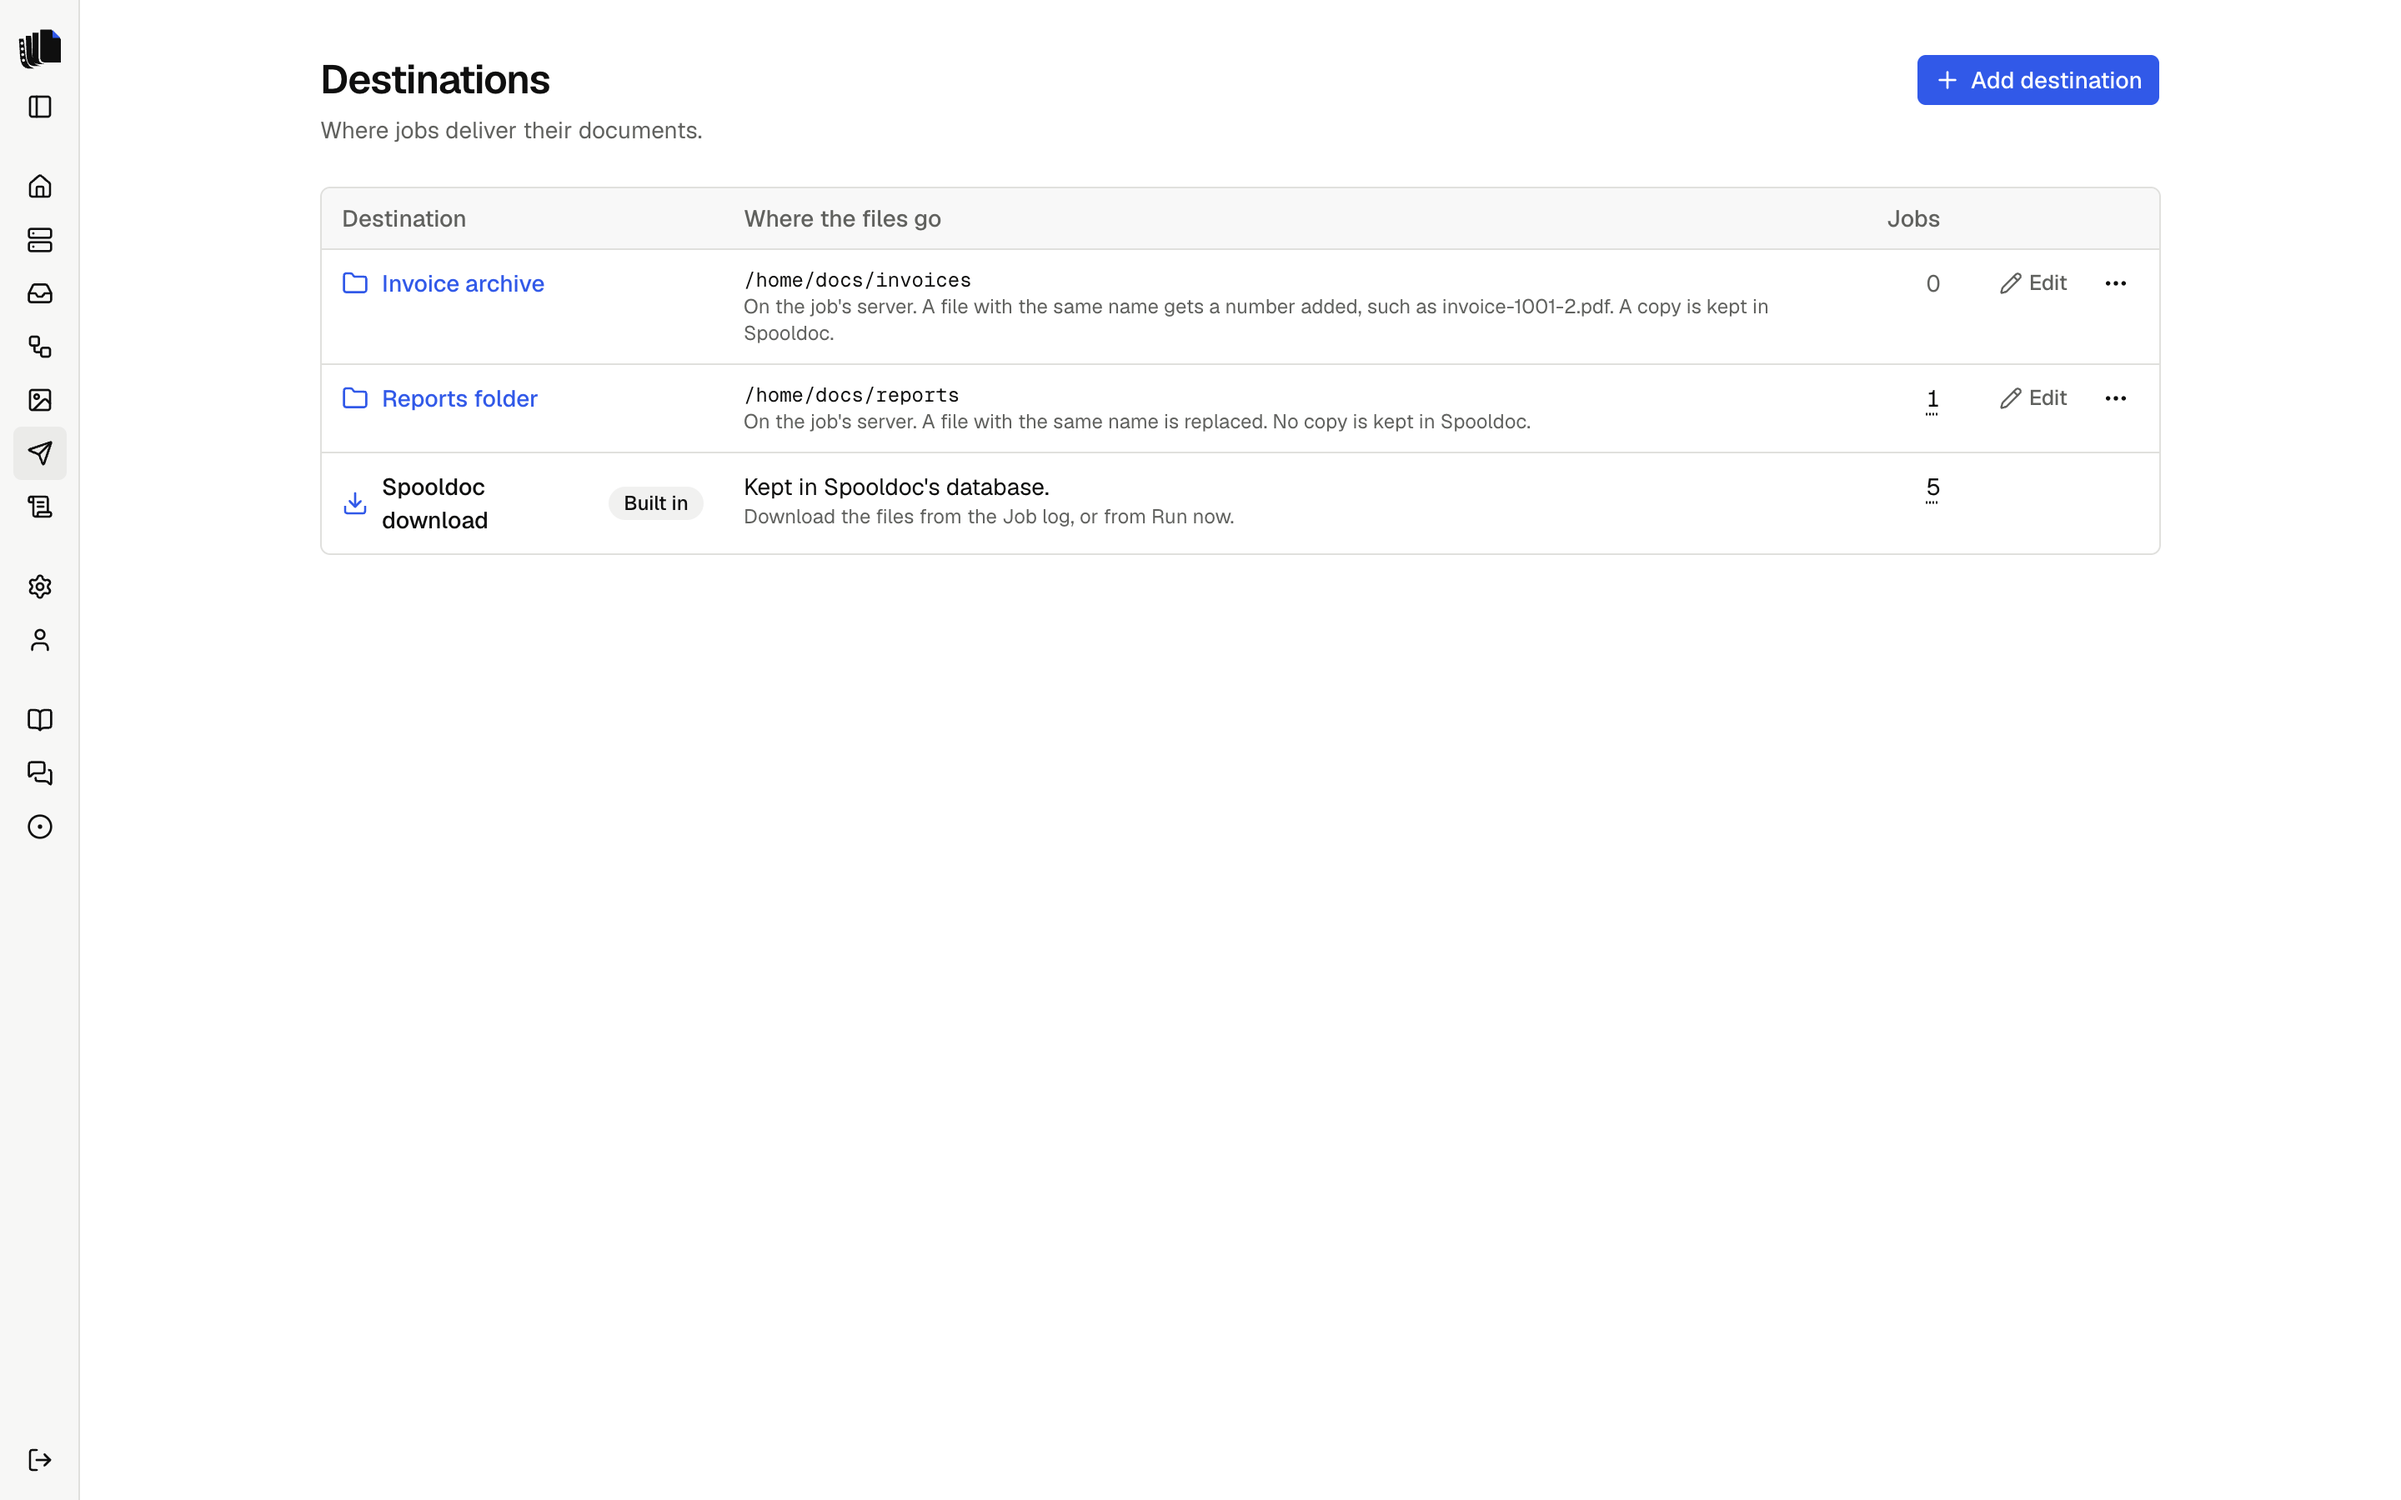
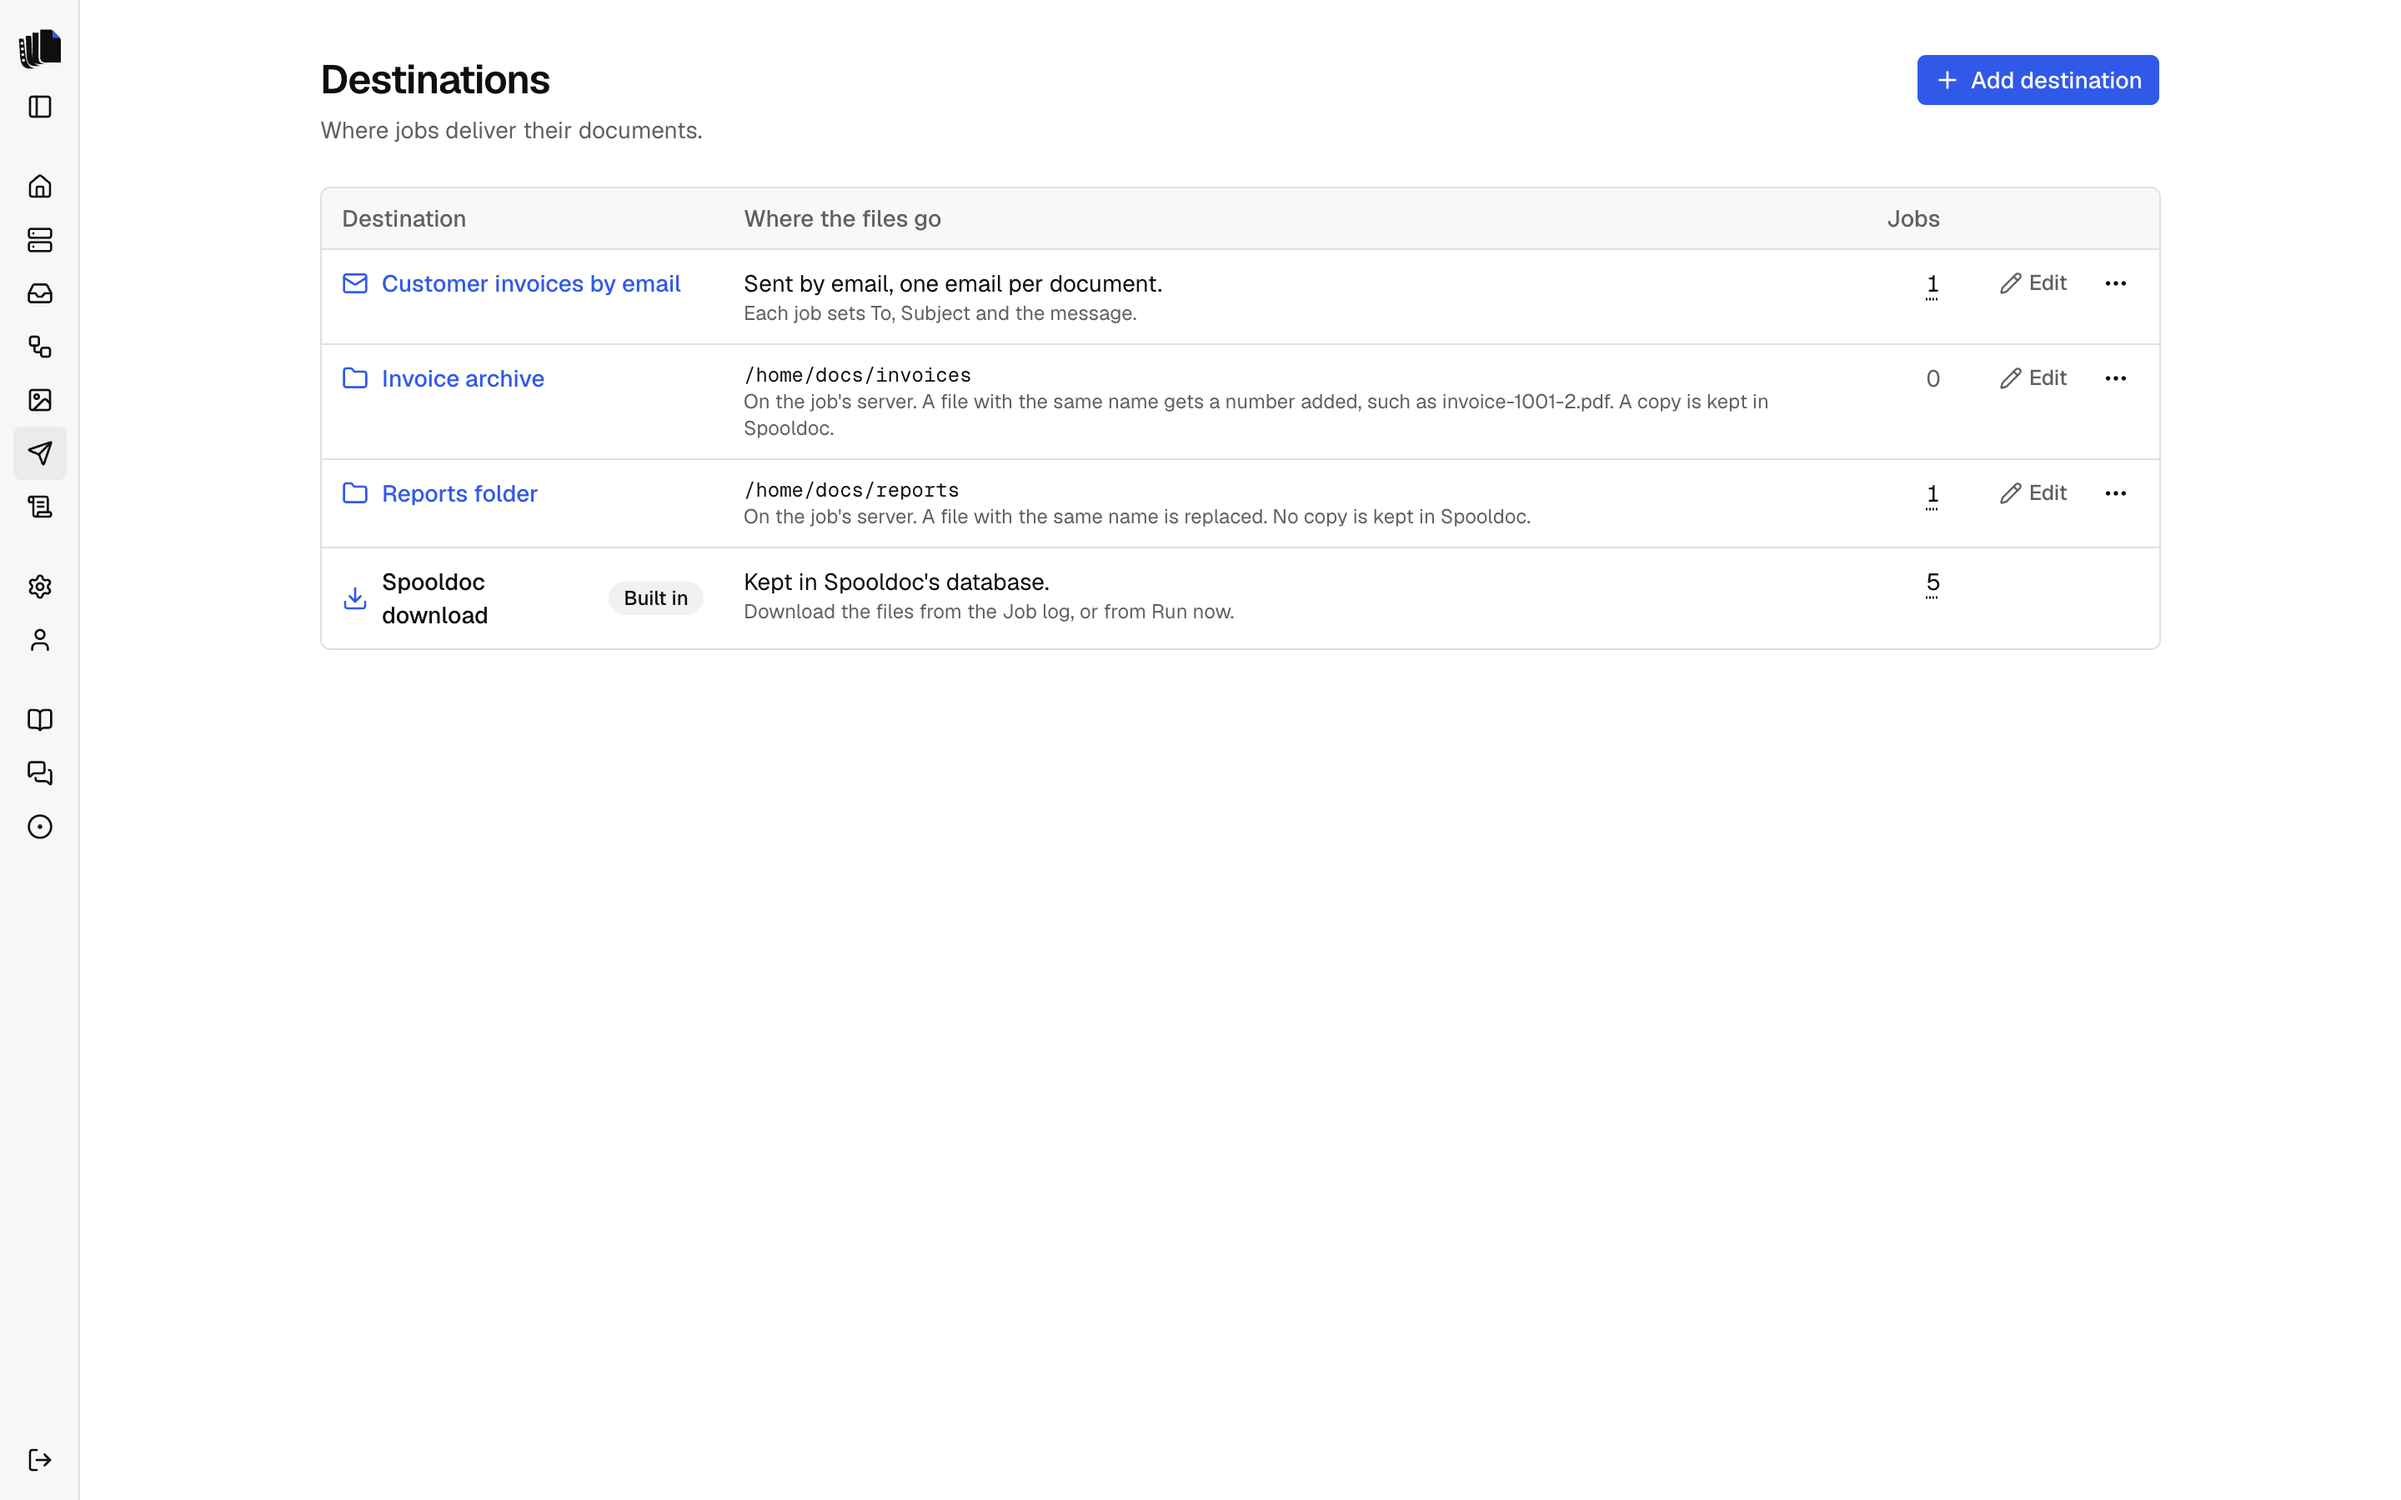
docs: screenshots of the email destination

diff --git a/apps/site/src/lib/features.ts b/apps/site/src/lib/features.ts
@@ -60,7 +60,9 @@ export const SHOTS = {
   'job-log-failed':
     'A failed run opened from the job log says which authority the user profile needs on the folder and the CHGAUT command that grants it, keeps the IBM i message under Details, and shows that the Deliver step failed.',
   destinations:
-    'The Destinations page lists two IFS folders, each with its folder, its settings and the number of jobs that use it, and the built-in Spooldoc download.',
+    'The Destinations page lists an email destination, two IFS folders with their folders and settings, and the built-in Spooldoc download, each with the number of jobs that use it.',
+  'email-step':
+    'The destination step of an invoice job sends to {d.pg.customerEmail} with a Bcc to an archive mailbox, a Reply-To and the subject Invoice {d.pg.invoiceNo} from MyCo Ltd. Beside the fields, the preview of page group 1 of 6 shows the email to invoices@northernsupply.example with invoice-260101.pdf attached and the message filled in.',
   'destination-ifs':
     'The New IFS destination dialog is filled in with a name, the folder /home/docs/delivery-notes, Add a number when a file with the same name exists, and Keep a copy in Spooldoc on.',
   home: 'The Home page shows counts of servers, output queues, jobs and runs, a chart of runs per day by status, and two items under Needs attention: a server that cannot be reached and a failed run.',
@@ -202,7 +204,7 @@ export const FEATURES: Feature[] = [
       'An email destination sends one email per document through your SMTP server. To, Subject and the message take fields such as <code>{d.pg.email}</code>, so each invoice goes to the customer on it, with its PDF attached. The message can be the document itself, from an HTML template. The job builder shows the email of each page group before anything is sent, and a test address sends every email to you first.',
       'The spooled file is held, moved or deleted only after every file was delivered. When an email fails, the job log lists each email with its status, and Retry sends only the ones not sent yet.',
     ],
-    shots: ['destinations', 'destination-ifs'],
+    shots: ['email-step', 'destinations', 'destination-ifs'],
     docs: [{ slug: 'destinations', title: 'Destinations' }],
   },
   {

diff --git a/docs/destinations.md b/docs/destinations.md
@@ -10,7 +10,7 @@ each, and adds, edits and deletes the ones you made.
 <p align="center">
   <picture>
     <source media="(prefers-color-scheme: dark)" srcset="assets/destinations-dark.png">
-    <img src="assets/destinations-light.png" alt="The Destinations page lists two IFS folders, each with its folder, its settings and the number of jobs that use it, and the built-in Spooldoc download." width="900">
+    <img src="assets/destinations-light.png" alt="The Destinations page lists an email destination, two IFS folders with their folders and settings, and the built-in Spooldoc download, each with the number of jobs that use it." width="900">
   </picture>
 </p>
 
@@ -128,6 +128,13 @@ go through the mail server set in [Settings](configuration.md#mail-server).
 Add one with **Add destination** on the Destinations page and pick
 **Email**. It has a name and a test address.
 
+<p align="center">
+  <picture>
+    <source media="(prefers-color-scheme: dark)" srcset="assets/destination-email-dark.png">
+    <img src="assets/destination-email-light.png" alt="The New destination dialog with Email picked is filled in with a name and a test address under Send all email to, and says that while it is set every email goes only there." width="900">
+  </picture>
+</p>
+
 **The test address.** While **Send all email to** is set, every email of
 every job that uses the destination goes only there. Cc and Bcc are
 dropped, the subject starts with `[Test]`, and a line at the top of the
@@ -163,6 +170,13 @@ Beside the fields, the step shows the email of one page group as it will
 be sent: From, To, Subject, the files and the message. Previous and Next
 step through the page groups, so you can watch To and Subject change from
 customer to customer. Nothing is sent from the preview.
+
+<p align="center">
+  <picture>
+    <source media="(prefers-color-scheme: dark)" srcset="assets/email-step-dark.png">
+    <img src="assets/email-step-light.png" alt="The destination step of an invoice job sends to {d.pg.customerEmail} with a Bcc to an archive mailbox, a Reply-To and the subject Invoice {d.pg.invoiceNo} from MyCo Ltd. Beside the fields, the preview of page group 1 of 6 shows the email to invoices@northernsupply.example with invoice-260101.pdf attached and the message filled in." width="900">
+  </picture>
+</p>
 
 **The email can be the document.** With **Message from** set to an HTML
 template, the message is the HTML the template makes for the page group.

diff --git a/docs/configuration.md b/docs/configuration.md
@@ -74,7 +74,7 @@ Under Settings, for the whole app:
 <p align="center">
   <picture>
     <source media="(prefers-color-scheme: dark)" srcset="assets/settings-dark.png">
-    <img src="assets/settings-light.png" alt="The Settings page shows Rendering with Carbone connected, its URL and Spooldoc's public key, the Agent with its provider, model, effort and usage, and the Watching and Retention settings." width="900">
+    <img src="assets/settings-light.png" alt="The Settings page shows Rendering with Carbone connected, its URL and Spooldoc's public key, the Mail server with its host, security, port, user name, a saved password and the From address, the Agent with its provider, model, effort and usage, and the Watching and Retention settings." width="900">
   </picture>
 </p>
 

diff --git a/docs/job-log.md b/docs/job-log.md
@@ -70,6 +70,13 @@ has an Emails section under its files, with a count such as "Emails (42
 of 43 sent)". It lists one email per document: the document, the
 addresses it was for, its status and the time.
 
+<p align="center">
+  <picture>
+    <source media="(prefers-color-scheme: dark)" srcset="assets/job-log-emails-dark.png">
+    <img src="assets/job-log-emails-light.png" alt="A run of an invoice job opened from the job log lists its PDF and HTML files, then Emails (6 of 6 sent): each invoice with the customer address it went to, Sent, and the time." width="900">
+  </picture>
+</p>
+
 | Status | Meaning |
 |--------|---------|
 | Sent | The mail server took the email. |
